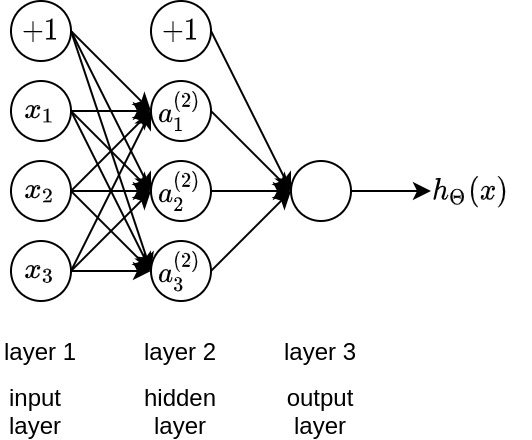
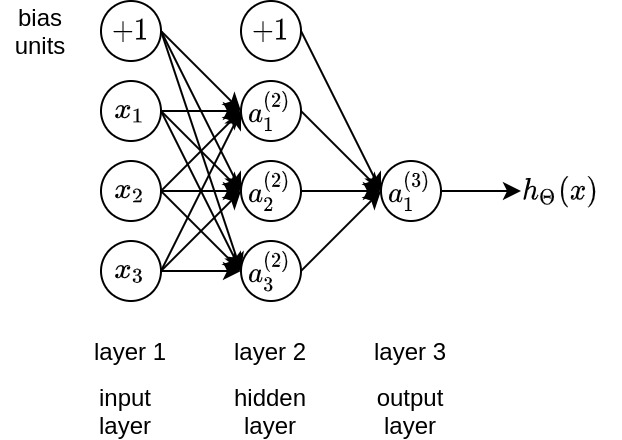
update neural network

diff --git a/note/main.tex b/note/main.tex
@@ -604,7 +604,18 @@ L =
 \end{center}
 
 \[a_i^{(j)} = \text{"activation" of unit i in layer j}\]
-\[\Theta_j = \text{matrix of weights (edges) from layer j to j + 1}\]
+\[\Theta^{(j)} = \text{matrix of weights (edges) from layer j to j + 1}\]
+
+\bigskip
+
+\[a_1^{(2)} = g(\Theta_{10}^{(1)} x_0 + \Theta_{11}^{(1)} x_1 + \Theta_{12}^{(1)} x_2 + \Theta_{13}^{(1)} x_3)\]
+\[a_2^{(2)} = g(\Theta_{20}^{(1)} x_0 + \Theta_{21}^{(1)} x_1 + \Theta_{22}^{(1)} x_2 + \Theta_{23}^{(1)} x_3)\]
+\[a_3^{(2)} = g(\Theta_{30}^{(1)} x_0 + \Theta_{31}^{(1)} x_1 + \Theta_{32}^{(1)} x_2 + \Theta_{33}^{(1)} x_3)\]
+\[h_{\Theta}(x) = a_1^{(3)} = g(\Theta_{10}^{(2)} a_0^{(2)} + \Theta_{11}^{(2)} a_1^{(2)} + \Theta_{12}^{(2)} a_2^{(2)} + \Theta_{13}^{(2)} a_3^{(2)})\]
+
+\bigskip
+
+\noindent If network has \(s_j\) units in layer \(j\), \(s_{j + 1}\) units in layer \(j + 1\), then \(\Theta_j\) will be of dimension \(s_{j + 1} \times (s_j + 1)\).
 
 \printindex
 
